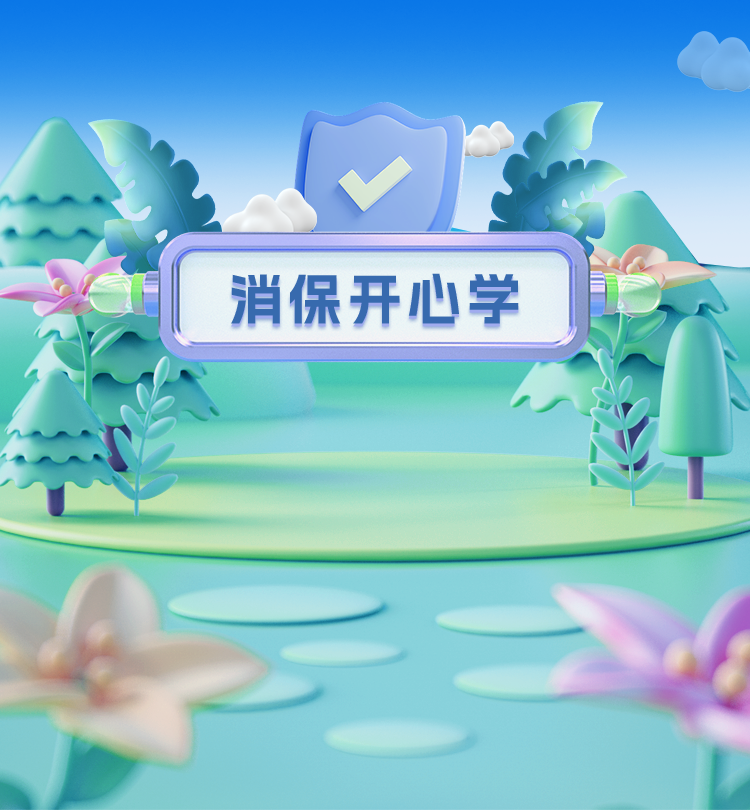
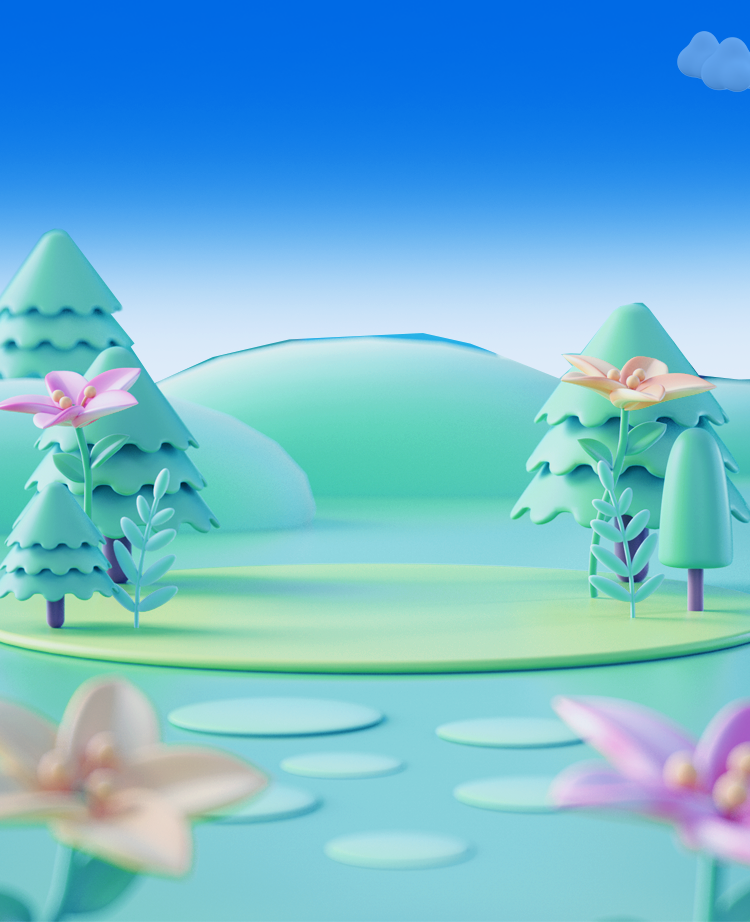
fix: fixed

diff --git a/src/views/detailPage/index.vue b/src/views/detailPage/index.vue
@@ -3,6 +3,8 @@
     <div class="detailPage"></div>
     <img src="../../assets/back.png" class="back" alt="" @click="back">
     <img src="../../assets/logo.png" class="titleImg" />
+    <img src="../../assets/read_title.png" class="readTitle" />
+
 
     <div class="detailList">
       <div class="lists">
@@ -94,10 +96,11 @@ export default defineComponent({
       if (glodNum) {
         showReadPop.value = true
       }
-      let data = await readIndex();
-      console.log(data, '333')
-      state.list =
-         data['healthInfoList'];
+      setTimeout( async ()=>{
+        let data = await readIndex();
+        state.list = data['healthInfoList'];
+      },500)
+
         // [
         //   {
         //     "dailyClickCount": 0,
@@ -183,14 +186,25 @@ export default defineComponent({
   display: flex;
   // margin-top: 140px;
   position: absolute;
-  top: 40px;
+  top:110px;
+  left: 50%;
+  transform: translateX(-50%);
+}
+
+.readTitle{
+  width: 574px;
+  height: 262px;
+  display: flex;
+  // margin-top: 140px;
+  position: absolute;
+  top: 170px;
   left: 50%;
   transform: translateX(-50%);
 }
 
 .detailList {
   width: 750px;
-  height: 70%;
+  height: 62%;
   background: url("../../assets/neirong_kuang.png") no-repeat top left / 100% 100%;
   position: absolute;
   bottom: 0;
@@ -246,8 +260,6 @@ export default defineComponent({
 
     .title-item {
       width: 600px;
-
-
     }
 
     .read {

diff --git a/src/views/homepage/index.vue b/src/views/homepage/index.vue
@@ -37,7 +37,6 @@ import RulePop from "@/components/RulePop.vue";
 import TaskPop from "@/components/TaskPop.vue";
 import { gameStart } from "@/api/resource";
 import { useStore } from "vuex";
-import { healthInfoIndex } from "@/api/resource";
 import { throttle } from "@/utils/throttle";
 
 export default defineComponent({
@@ -75,7 +74,6 @@ export default defineComponent({
 
     const goGame = throttle(async () => {
       let res = await gameStart();
-      console.log(res)
       if(res.success && res.data["startId"]){
         store.commit("setGameInfo", res.data);
         router.replace({
@@ -280,7 +278,7 @@ export default defineComponent({
   display: flex;
   // margin-top: 140px;
   position: absolute;
-  top: 130px;
+  top: 175px;
   left: 50%;
   transform: translateX(-50%);
 }

diff --git a/src/views/long_pic_page/index.vue b/src/views/long_pic_page/index.vue
@@ -48,7 +48,6 @@ export default defineComponent({
 
     onMounted(async () => {
       const { info,status } = route.params
-      console.log(route.params,status,'info')
       haveGift.value = Number(status) == 0;
       const { index } = store.state
       if( index.healthInfo?.guidStatus === void 0){
@@ -64,7 +63,7 @@ export default defineComponent({
     /* 开始倒计时 */
     const beginTimeDown = () => {
       timer = setInterval(() => {
-        if (countdown.value <= 0) {
+        if (countdown.value <= 1) {
           clearInterval(timer);
           timer = "";
           complete();
